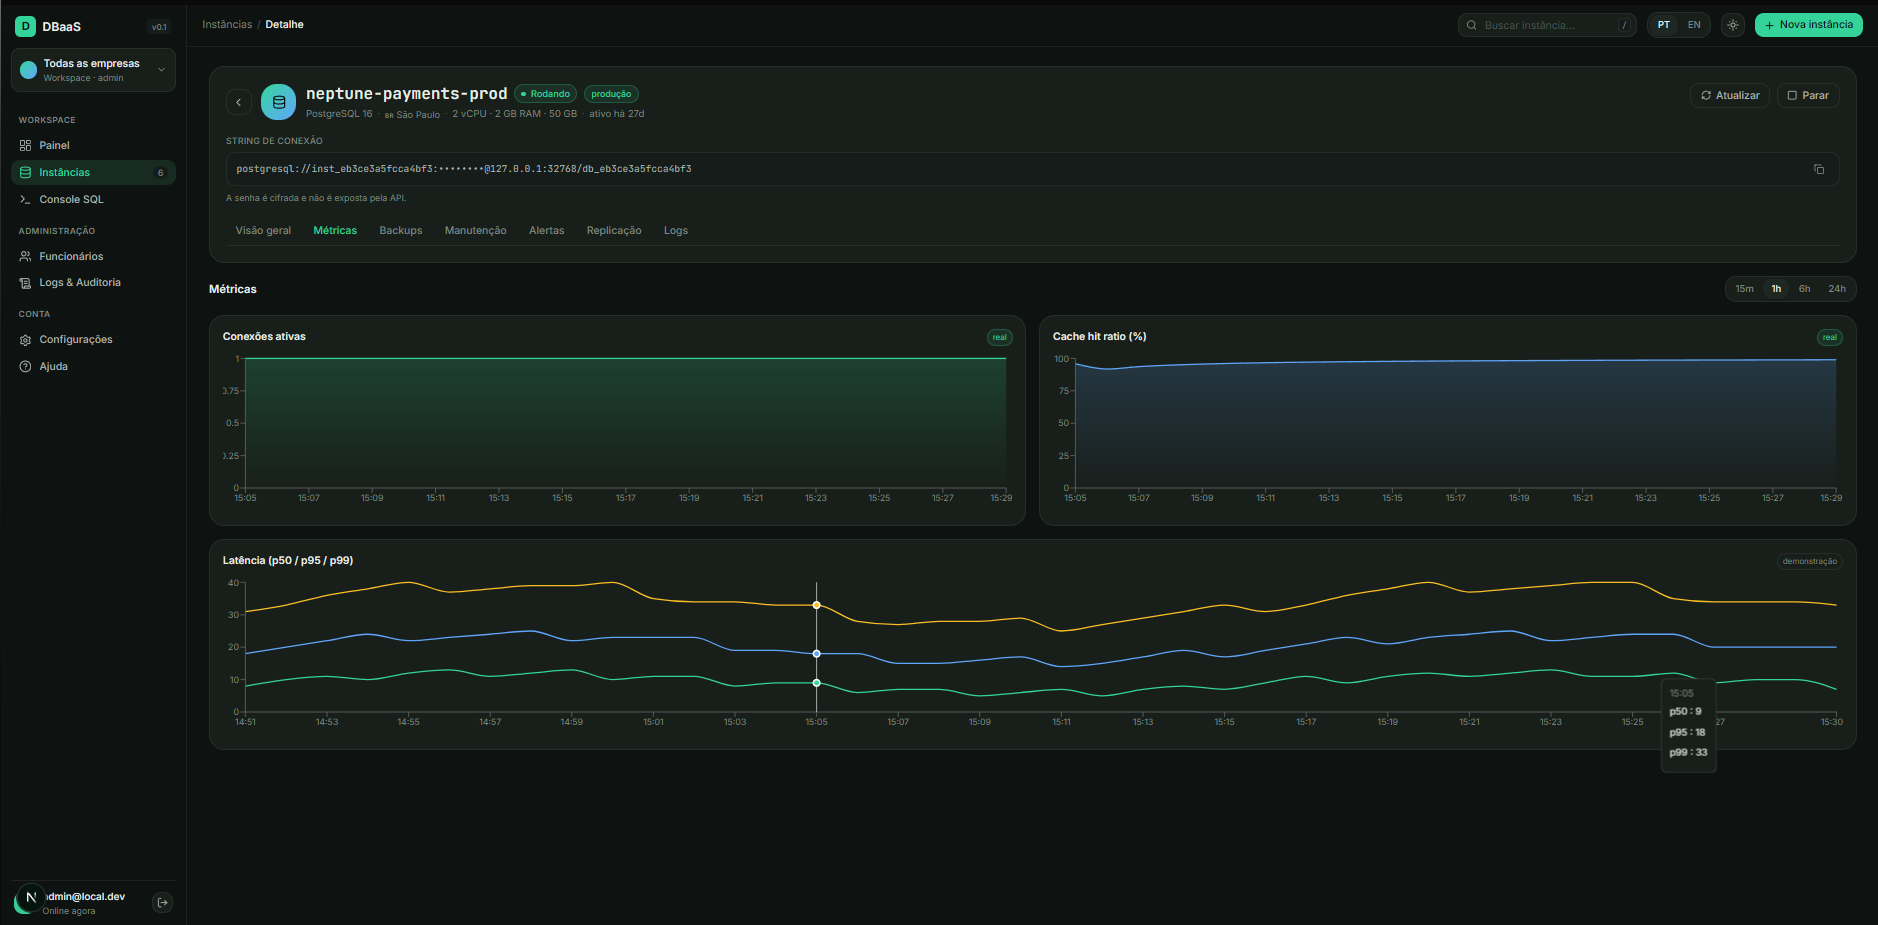
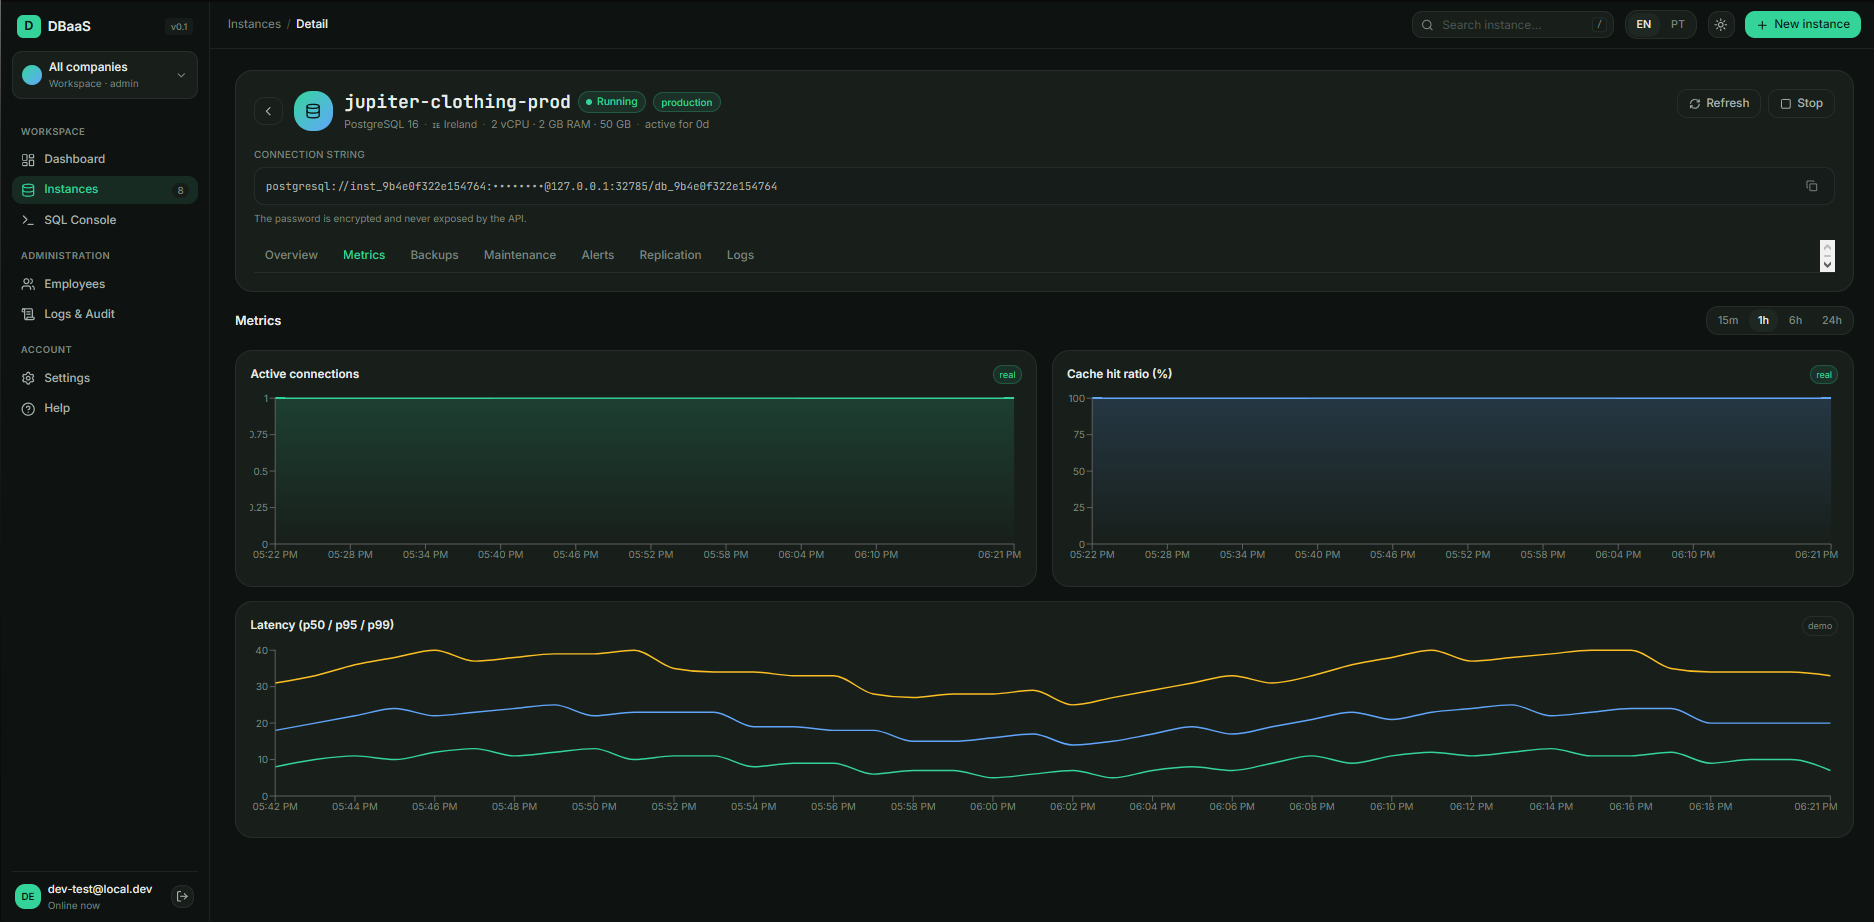
docs(readme): refresh screenshots — dashboard hero + faithful captions

diff --git a/README.md b/README.md
@@ -133,11 +133,17 @@ the `dev-test@local.dev` superuser above sees and switches between all:
 > datasets — the only exception is the per-query latency chart, labelled *demo*
 > in the UI itself (the backend collects fleet-wide P95, not per-execution latency).
 
+![Fleet dashboard](docs/images/dashboard.png)
+
+**Fleet dashboard** — real-time fleet KPIs (queries/s, P95 latency, 30-day uptime),
+a region map of where the databases run, per-company health cards and a live
+activity feed of who did what.
+
 | | |
 |---|---|
-| ![Fleet dashboard](docs/images/dashboard.png) **Fleet dashboard** — real-time KPIs (queries/s, P95 latency, 30-day uptime), region map and per-instance health. | ![Instance overview](docs/images/instance-vision.png) **Instance overview** — connections, cache hit, size and status at a glance, with live connections, schema explorer and slow queries (`pg_stat_statements`). |
-| ![Instance metrics](docs/images/instance-detail.png) **Instance metrics** — time-series charts for active connections and cache hit ratio, with a 15m/1h/6h/24h window selector. | ![SQL console](docs/images/sql-console.png) **SQL console** — read-only SELECT runner with schema browser, results grid and `EXPLAIN` plans. |
-| ![Multi-tenant RBAC](docs/images/admin-users.png) **Multi-tenancy** — company workspaces, employee management and the capability/permission matrix. | |
+| ![Instances](docs/images/instances.png) **Instances** — the managed fleet with production / staging / development filters; each card shows region, engine version, health, connections, cache-hit ratio, size and storage. | ![Instance overview](docs/images/instance-view.png) **Instance overview** — connection string (password encrypted, never exposed by the API), health tiles, live connections (`pg_stat_activity`), schema explorer (`pg_class`) and slow queries (`pg_stat_statements`). |
+| ![Instance metrics](docs/images/instance-detail.png) **Instance metrics** — time-series for active connections and cache-hit ratio (live) plus p50 / p95 / p99 latency (demo), with a 15m / 1h / 6h / 24h window selector. | ![SQL console](docs/images/sql-console.png) **SQL console** — read-only SELECT runner against a managed database, with a schema browser, results grid and `EXPLAIN` plans (Ctrl/Cmd + Enter to run). |
+| ![Logs & audit](docs/images/logs.png) **Logs & audit** — an immutable, filterable trail of platform actions (logins, instance created / deleted / status changed) with resource, source IP and time. | ![Multi-tenancy & RBAC](docs/images/admin-users.png) **Multi-tenancy & RBAC** — the employee directory with a role capability matrix (Member / Company Admin / Superuser) and per-company user management. |
 
 ---
 

diff --git a/docs/images/README.md b/docs/images/README.md
@@ -4,16 +4,17 @@ Drop the captured PNGs here with these exact names (referenced by the root `READ
 
 | File | Screen | How to reach it |
 |------|--------|-----------------|
-| `dashboard.png` | Fleet dashboard (Painel) | `/` — the KPI row + region map + instance cards |
-| `instance-vision.png` | Instance overview, "Visão geral" tab | `/instances/{id}` — stat cards, connections, schema explorer, slow queries |
-| `instance-detail.png` | Instance metrics, "Métricas" tab | `/instances/{id}` → "Métricas" — pick a window (1h/6h) with a populated curve |
+| `dashboard.png` | Fleet dashboard (hero, full-width) | `/` — KPI row + region map + instance cards + activity feed |
+| `instances.png` | Instances list | `/instances` — the fleet cards with the environment filter |
+| `instance-view.png` | Instance overview, "Overview" tab | `/instances/{id}` — stat tiles, connections, schema explorer, slow queries |
+| `instance-detail.png` | Instance metrics, "Metrics" tab | `/instances/{id}` → "Metrics" — pick a window (1h/6h) with a populated curve |
 | `sql-console.png` | SQL console | `/sql` — run a `SELECT` so the results grid is populated |
-| `logs.png` | Container logs tab | `/instances/{id}` → "Logs" |
+| `logs.png` | Logs & Audit trail | `/audit` — the filterable action log |
 | `admin-users.png` | Employees / RBAC matrix | `/admin/users` (log in as the superuser) |
 
-> `logs.png` is **not currently referenced by the root README**: the captured file
-> predates the WAL-archive fix and shows the `Permission denied` wall that the
-> README's case study describes as resolved. Re-link it once recaptured.
+> Capture the UI in **English** (the language toggle is in the top bar) — the whole
+> set must be consistent. The instance-metrics latency chart is labelled *demo* in
+> the UI; that is expected (the backend collects fleet-wide P95, not per-execution).
 
 > The Replication tab is intentionally **not** in the README: with no standby
 > provisioned it renders empty, and a screenshot of an empty state undersells the
